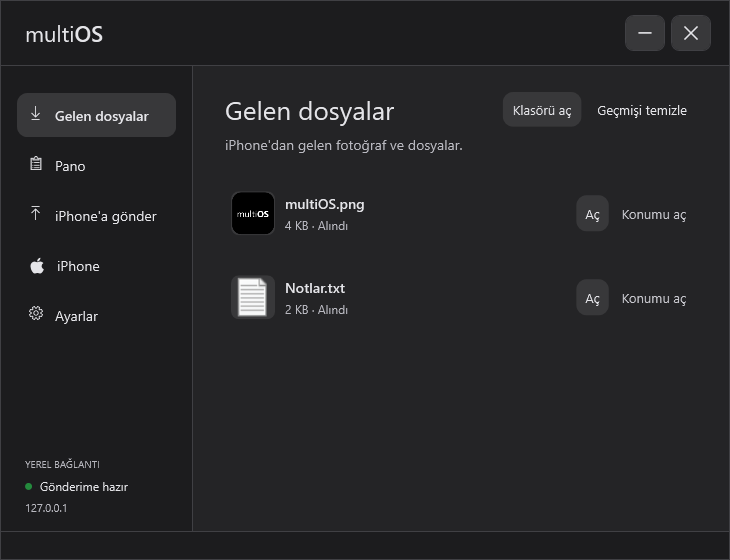
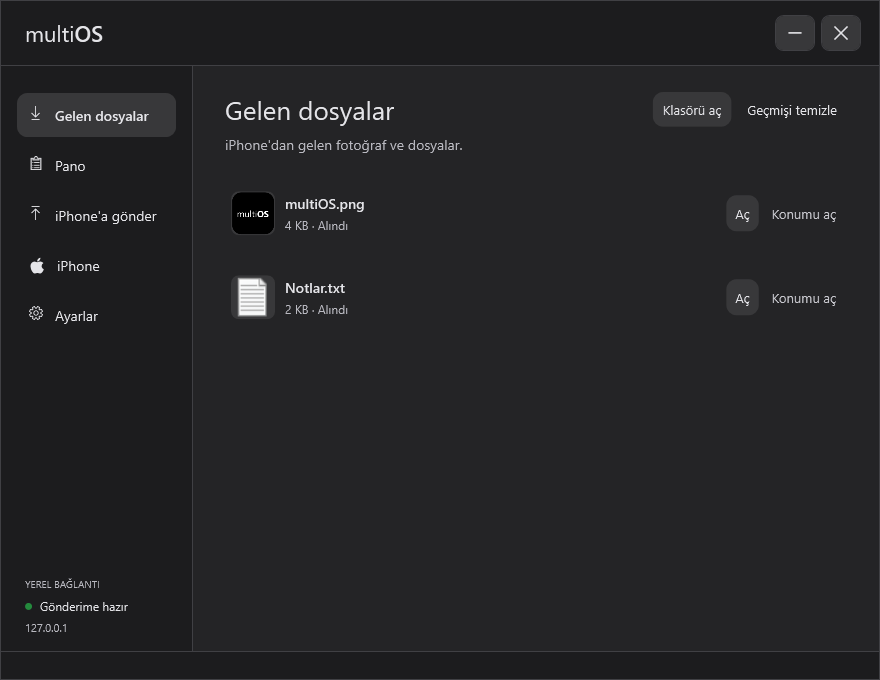
Give README screenshots a wider gallery layout

diff --git a/README.md b/README.md
@@ -10,13 +10,50 @@ iPhone ve Windows arasında yerel ağ üzerinden fotoğraf, dosya ve pano içeri
 paylaşın. Windows uygulaması yerel bir WPF penceresi ve sistem tepsisiyle çalışır.
 Dosyalar doğrudan cihazlar arasında aktarılır; bulut hesabı gerekmez.
 
-<picture>
-  <source media="(prefers-color-scheme: dark)" srcset="assets/screenshots/windows-dark.png">
-  <source media="(prefers-color-scheme: light)" srcset="assets/screenshots/windows-light.png">
-  <img alt="multiOS Windows uygulamasında gelen dosyalar" src="assets/screenshots/windows-light.png" width="960">
-</picture>
+## Uygulamaya göz atın
 
-*Örnek dosyalarla alınmış gerçek Windows uygulaması görüntüsü.*
+### Windows
+
+<a href="assets/screenshots/windows-light.png">
+  <picture>
+    <source media="(prefers-color-scheme: dark)" srcset="assets/screenshots/windows-dark.png">
+    <source media="(prefers-color-scheme: light)" srcset="assets/screenshots/windows-light.png">
+    <img alt="Windows · Gelen dosyalar" src="assets/screenshots/windows-light.png" width="100%">
+  </picture>
+</a>
+
+### Telefon
+
+Fotoğraf ve dosya aktarımı ile pano paylaşımı, ayrı bölümlerde.
+
+<table>
+  <tr>
+    <th width="50%">Dosyalar</th>
+    <th width="50%">Pano</th>
+  </tr>
+  <tr>
+    <td valign="top"><a href="assets/screenshots/phone-files-light.png">
+  <picture>
+    <source media="(prefers-color-scheme: dark)" srcset="assets/screenshots/phone-files-dark.png">
+    <source media="(prefers-color-scheme: light)" srcset="assets/screenshots/phone-files-light.png">
+    <img alt="Telefon · Dosya gönderme ve indirme" src="assets/screenshots/phone-files-light.png" width="100%">
+  </picture>
+</a></td>
+    <td valign="top"><a href="assets/screenshots/phone-clipboard-light.png">
+  <picture>
+    <source media="(prefers-color-scheme: dark)" srcset="assets/screenshots/phone-clipboard-dark.png">
+    <source media="(prefers-color-scheme: light)" srcset="assets/screenshots/phone-clipboard-light.png">
+    <img alt="Telefon · Pano paylaşımı" src="assets/screenshots/phone-clipboard-light.png" width="100%">
+  </picture>
+</a></td>
+  </tr>
+  <tr>
+    <td>Fotoğraf gönderin, hazırlanan dosyaları indirin.</td>
+    <td>Metin ve görselleri iki yönde paylaşın.</td>
+  </tr>
+</table>
+
+*Örnek verilerle alınmış gerçek arayüz görüntüleri. Telefon görüntüleri mobil tarayıcı boyutunda alınmıştır; fiziksel iPhone çekimi değildir. Görseller GitHub temanıza uyum sağlar. Tam boy incelemek için görsele tıklayın.*
 
 ## Gereksinimler
 
@@ -62,23 +99,6 @@ ve güncellemelerde korunur; her kullanımda eşleştirme gerekmez. Ağınızda 
 değiştiğinde kestirmedeki adresi de güncellemeniz gerekir.
 Kolay erişim için telefon sayfasını Ana Ekran'a ekleyebilirsiniz.
 `MULTIOS_SHORTCUT_URL` ortam değişkeni, varsayılan iCloud kestirme bağlantısını değiştirir.
-
-## Telefon arayüzü
-
-Telefon sayfasından Windows'a fotoğraf veya dosya gönderin, hazırlanan dosyaları
-indirin ve pano içeriğini paylaşın. Üstteki **Dosyalar / Pano** bağlantılarıyla
-ilgili bölüme doğrudan ulaşabilirsiniz.
-
-<p align="center">
-  <picture>
-    <source media="(prefers-color-scheme: dark)" srcset="assets/screenshots/phone-dark.png">
-    <source media="(prefers-color-scheme: light)" srcset="assets/screenshots/phone-light.png">
-    <img alt="multiOS telefon sayfasında dosya paylaşımı ve pano kontrolleri" src="assets/screenshots/phone-light.png" width="320">
-  </picture>
-</p>
-
-*Telefon sayfasının örnek verilerle, mobil tarayıcı boyutunda alınmış görüntüsü;
-gerçek bir iPhone'dan alınmamıştır. Görseller GitHub temanıza göre değişir.*
 
 ## Tek dosyalık uygulama paketi oluşturma
 

diff --git a/README.en.md b/README.en.md
@@ -10,13 +10,50 @@ Share photos, files and clipboard content between an iPhone and Windows over you
 local network. Windows uses a native WPF window and system tray. Files travel
 directly between devices; no cloud account is required.
 
-<picture>
-  <source media="(prefers-color-scheme: dark)" srcset="assets/screenshots/windows-dark.png">
-  <source media="(prefers-color-scheme: light)" srcset="assets/screenshots/windows-light.png">
-  <img alt="multiOS on Windows showing received files" src="assets/screenshots/windows-light.png" width="960">
-</picture>
+## App preview
 
-*The native Windows app, captured with sample files.*
+### Windows
+
+<a href="assets/screenshots/windows-light.png">
+  <picture>
+    <source media="(prefers-color-scheme: dark)" srcset="assets/screenshots/windows-dark.png">
+    <source media="(prefers-color-scheme: light)" srcset="assets/screenshots/windows-light.png">
+    <img alt="Windows · Received files" src="assets/screenshots/windows-light.png" width="100%">
+  </picture>
+</a>
+
+### Phone
+
+File transfers and clipboard sharing, shown as separate sections.
+
+<table>
+  <tr>
+    <th width="50%">Files</th>
+    <th width="50%">Clipboard</th>
+  </tr>
+  <tr>
+    <td valign="top"><a href="assets/screenshots/phone-files-light.png">
+  <picture>
+    <source media="(prefers-color-scheme: dark)" srcset="assets/screenshots/phone-files-dark.png">
+    <source media="(prefers-color-scheme: light)" srcset="assets/screenshots/phone-files-light.png">
+    <img alt="Phone · Send and download files" src="assets/screenshots/phone-files-light.png" width="100%">
+  </picture>
+</a></td>
+    <td valign="top"><a href="assets/screenshots/phone-clipboard-light.png">
+  <picture>
+    <source media="(prefers-color-scheme: dark)" srcset="assets/screenshots/phone-clipboard-dark.png">
+    <source media="(prefers-color-scheme: light)" srcset="assets/screenshots/phone-clipboard-light.png">
+    <img alt="Phone · Clipboard sharing" src="assets/screenshots/phone-clipboard-light.png" width="100%">
+  </picture>
+</a></td>
+  </tr>
+  <tr>
+    <td>Send photos and download prepared files.</td>
+    <td>Share text and images in both directions.</td>
+  </tr>
+</table>
+
+*Actual interfaces captured with sample data. Phone screenshots use a mobile browser viewport, not a physical iPhone. Images follow your GitHub theme. Click an image to view it at full size.*
 
 ## Requirements
 
@@ -56,23 +93,6 @@ so repeated pairing is unnecessary. Prefer `multios.local` when it resolves on
 your network; an IP-based shortcut address must be updated if the PC's IP changes.
 Save the phone page to the Home Screen for convenient access.
 `MULTIOS_SHORTCUT_URL` overrides the default iCloud shortcut link.
-
-## Phone interface
-
-Send photos or files to Windows, download prepared files, and exchange clipboard
-content from the phone page. The **Files / Clipboard** links provide quick access
-to each section.
-
-<p align="center">
-  <picture>
-    <source media="(prefers-color-scheme: dark)" srcset="assets/screenshots/phone-dark.png">
-    <source media="(prefers-color-scheme: light)" srcset="assets/screenshots/phone-light.png">
-    <img alt="multiOS mobile browser page showing file sharing and clipboard controls" src="assets/screenshots/phone-light.png" width="320">
-  </picture>
-</p>
-
-*The actual phone page rendered in a mobile browser viewport with sample data.
-This is not a capture from a physical iPhone. Images follow your GitHub theme.*
 
 ## Standalone build
 
